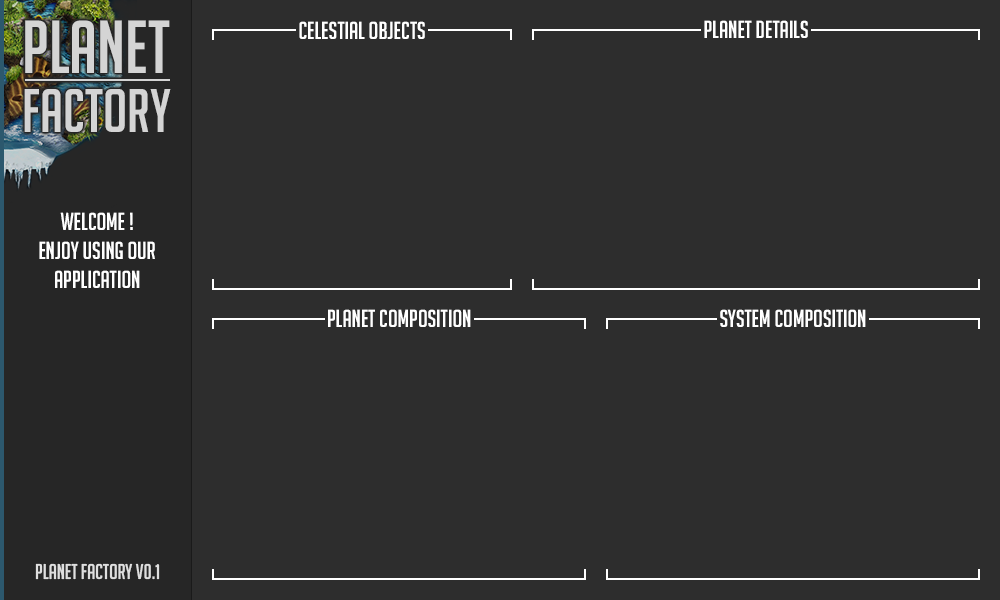
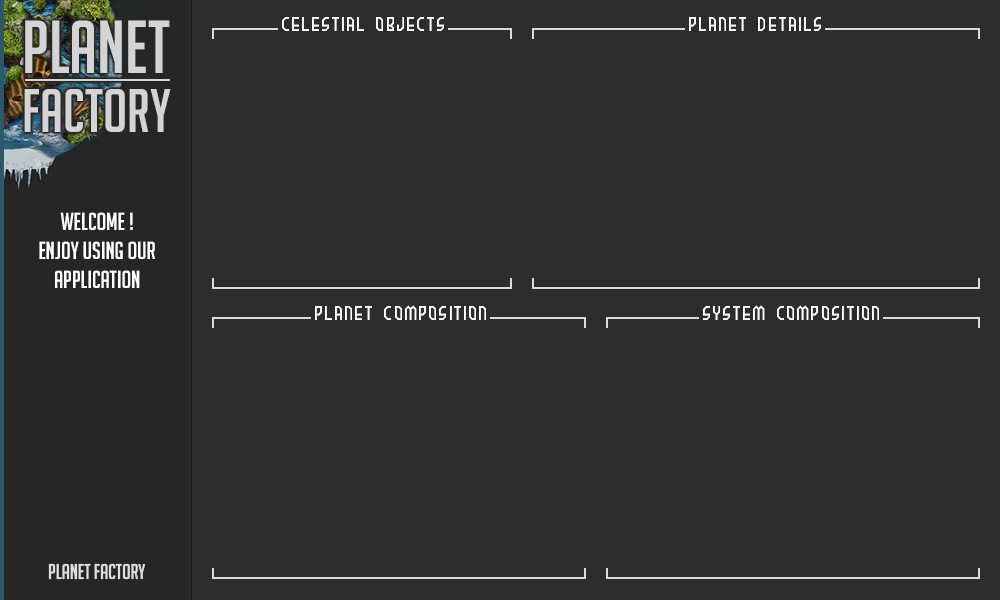
font change

diff --git a/Planet Factory - Generator/Generateur_new/PlanetDetailsBox.cpp b/Planet Factory - Generator/Generateur_new/PlanetDetailsBox.cpp
@@ -7,17 +7,8 @@ PlanetDetailsBox::PlanetDetailsBox(MainWindow *parent) : QWidget(parent)
     setGeometry(538, 22, 442, 270);
 
     QLabel *label_name_planettype = new QLabel(this);
-    label_name_planettype->setPixmap(QPixmap(":/res/name_planettype.png"));
-    label_name_planettype->setGeometry(0, 20, 435, 13);
-    QLabel *label_radius_degrees = new QLabel(this);
-    label_radius_degrees->setPixmap(QPixmap(":/res/radius_degrees.png"));
-    label_radius_degrees->setGeometry(0, 80, 435, 13);
-    QLabel *label_distance_revolution = new QLabel(this);
-    label_distance_revolution->setPixmap(QPixmap(":/res/distance_revolution.png"));
-    label_distance_revolution->setGeometry(0, 140, 435, 14);
-    QLabel *label_censtral_star = new QLabel(this);
-    label_censtral_star->setPixmap(QPixmap(":/res/central_star.png"));
-    label_censtral_star->setGeometry(0, 199, 435, 11);
+    label_name_planettype->setPixmap(QPixmap(":/res/bg-planetdetails.png"));
+    label_name_planettype->setGeometry(0, 0, 435, 260);
 
     _eName = new QLineEdit(this);
     _eRadius = new QSpinBox(this);
@@ -67,7 +58,7 @@ PlanetDetailsBox::PlanetDetailsBox(MainWindow *parent) : QWidget(parent)
     for (int i = 0; i < _eType->count(); ++i)
         _eType->setItemData(i, Qt::AlignHCenter, Qt::TextAlignmentRole);
 
-    _eCentralStar->setGeometry(400, 197, 15, 15);
+    _eCentralStar->setGeometry(385, 201, 15, 15);
     if (parent->getCurrPlanet() != NULL)
         _eCentralStar->setEnabled(FALSE);
 

diff --git a/Planet Factory - Generator/Generateur_new/PlanetCompoBox.cpp b/Planet Factory - Generator/Generateur_new/PlanetCompoBox.cpp
@@ -19,8 +19,8 @@ PlanetCompoBox::PlanetCompoBox(MainWindow *parent) : QWidget(parent)
     _winPla->setFixedSize(265, 280);
 
     QLabel *infos = new QLabel(this);
-    infos->setPixmap(QPixmap(":/res/label_planet_compo.png"));
-    infos->setGeometry(-17, 0, 362, 24);
+    infos->setPixmap(QPixmap(":/res/bg-planetcompos.png"));
+    infos->setGeometry(0, -3, 362, 24);
 
     _listObjects = new QListWidget(this);
     _listObjects->setGeometry(394, 0, 362, 207);
